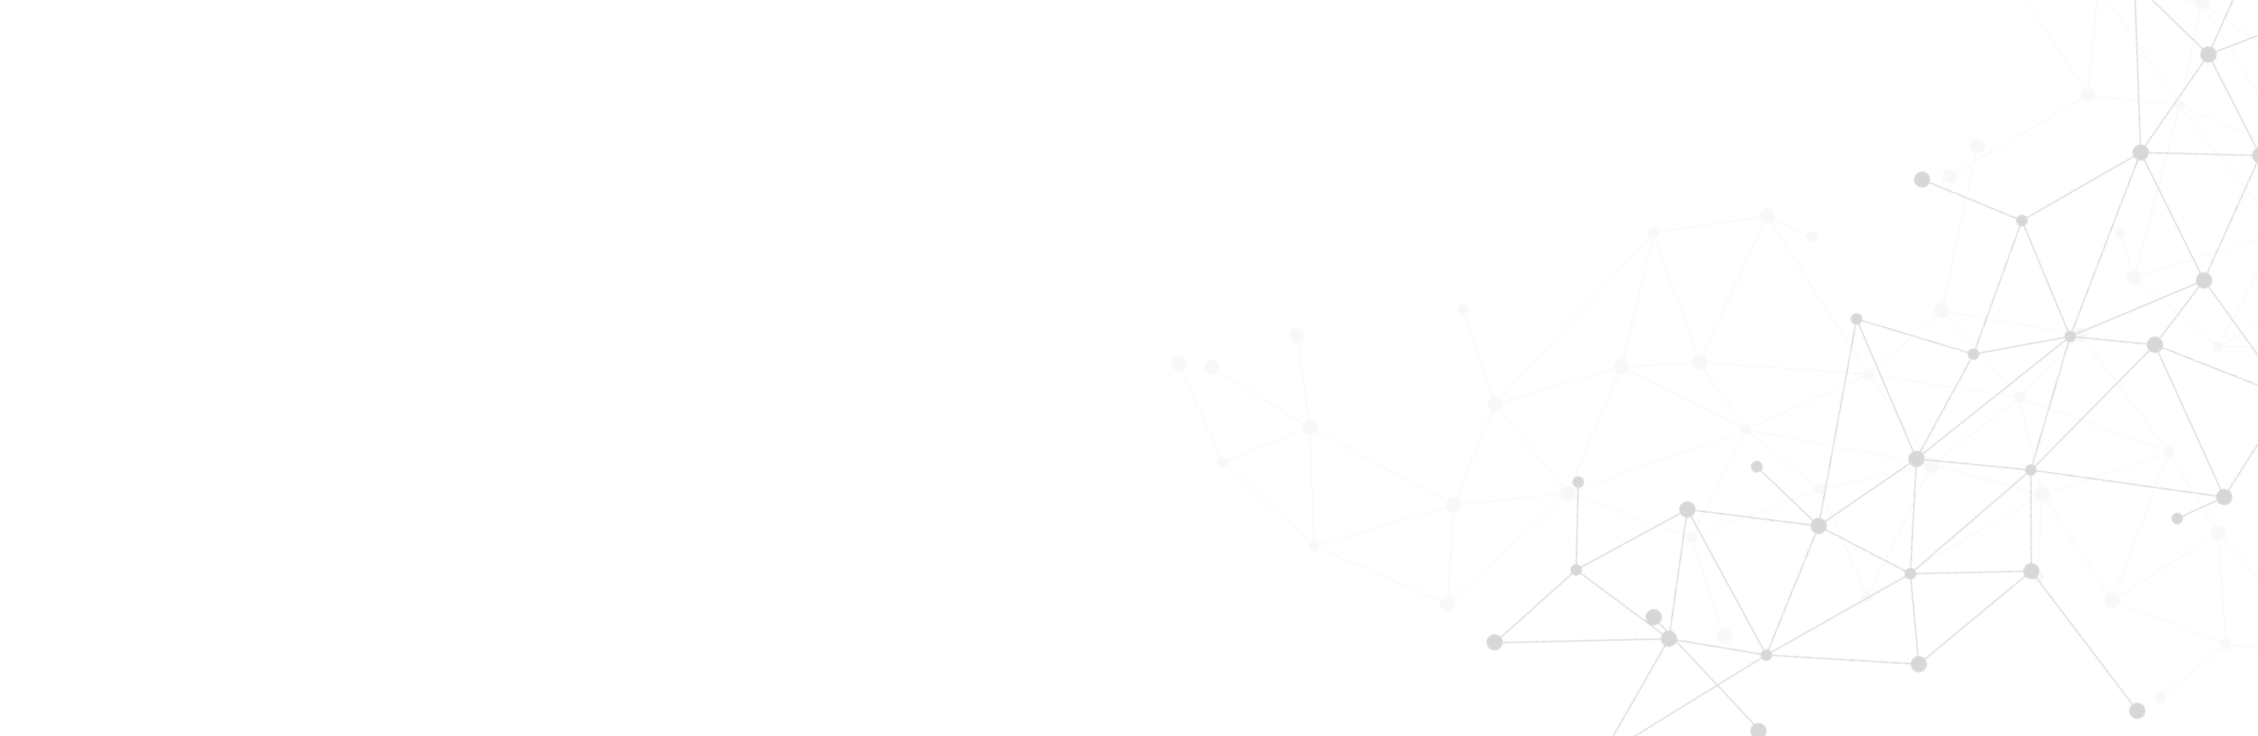
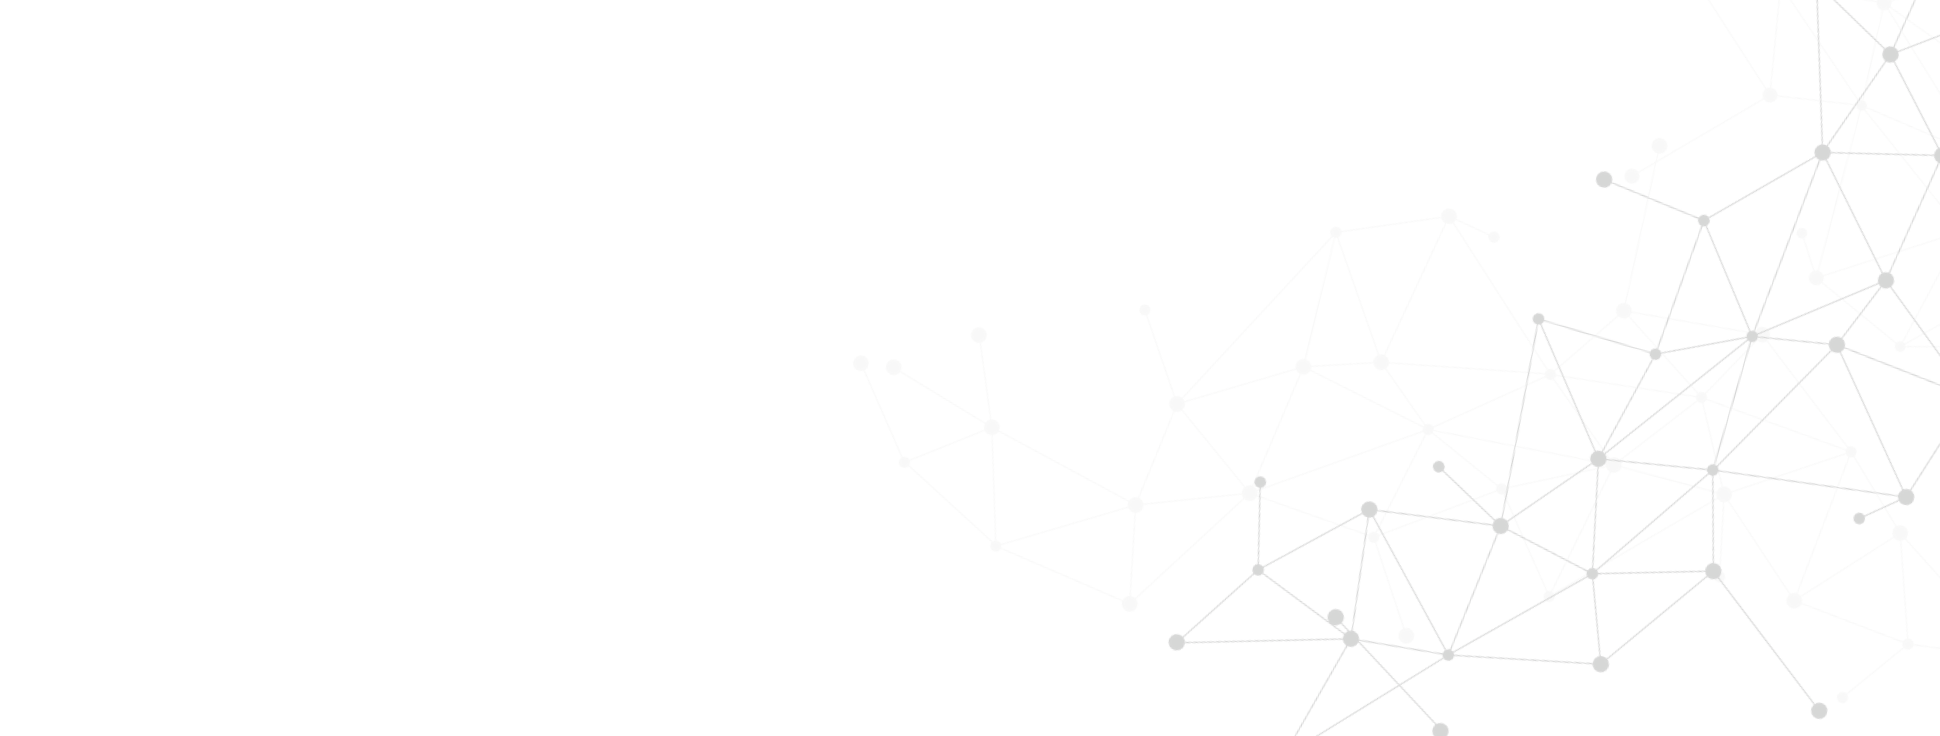
dropdowns and carousel

diff --git a/pages/index.vue b/pages/index.vue
@@ -5,7 +5,7 @@
         { baseContainer: true, inBetween: disabled, newContainer: disabled },
       ]"
     >
-      <div class="title-container font-Roboto text-2xl md:text-6xl">
+      <div class="title-container font-Roboto text-2xl md:text-5xl">
         <p id="title-line1">Crafting Your Digital Advantage</p>
         <p id="title-line2">with Innovative Solutions</p>
       </div>
@@ -41,24 +41,47 @@
       style="display: none"
     >
       <v-carousel touch.boolean="true" height="100%">
+        <v-carousel-item>
+          <p class="font-Poppins text-xl md:text-4xl m-6">
+            Services
+        </p>
+          <div class="columns-3 p-4 mt-10 mx-36">
+            <v-card class="" v-for="n in 3" :key="n" :title="n">
+              <v-card-text>mimimiimimi</v-card-text>
+            </v-card>
+          </div>
+        </v-carousel-item>
+
         <v-carousel-item v-for="item in carousel">
-          <div class="flex md:m-24" style="width: 75%; margin-left: auto !important; margin-right: auto !important">
+          <div
+            class="flex md:m-24"
+            style="
+              width: 75%;
+              margin-left: auto !important;
+              margin-right: auto !important;
+            "
+          >
             <div class="text-center p-8 m-auto">
               <p class="font-Poppins text-xl md:text-4xl m-6">
                 {{ item.title }}
               </p>
-              <p class="font-Overpass text-gray-500 text-sm md:text-xl">
+              <p
+                class="font-Overpass text-gray-500 text-sm font-semibold md:text-xl"
+              >
                 {{ item.text }}
               </p>
             </div>
 
-            <v-avatar class="ma-3 sm:d-none md:d-block hidden-sm-and-down" rounded="0" size="350">
-              <v-img :src=item.image></v-img>
+            <v-avatar
+              class="ma-3 sm:d-none md:d-block hidden-sm-and-down"
+              rounded="0"
+              size="350"
+            >
+              <v-img :src="item.image"></v-img>
             </v-avatar>
           </div>
         </v-carousel-item>
       </v-carousel>
-      
     </div>
   </div>
 </template>
@@ -72,22 +95,22 @@ function findMore() {
 }
 
 const carousel = ref([
-    {
-      title: "Custom Software Development",
-      text: "We build and optimize software solutions tailored to your unique business and organizational objectives and processes. Working closely with you throughout the development process, we ensure constant alignment with your business and operational objectives. We are committed to producing exceptional software for you.",
-      image: "https://cdn.vuetifyjs.com/images/cards/foster.jpg",
-    },
-    {
-      title: "Software Re-engineering and Support",
-      text: "Our seasoned software engineers enhance your system by updating technology, redesigning the UI, and integrating new features. Our reengineering and support services ensure your software stays modern, easy to maintain, and aligned with your business goals.",
-      image: "https://cdn.vuetifyjs.com/images/cards/hotel.jpg",
-    },
-    {
-      title: "Cloud Computing Support",
-      text: "Our cloud computing support services helps your organization migrate its IT infrastructure to the Cloud, ensuring that you can take advantage of the many benefits of Cloud Computing, including scalability, flexibility, and cost-effectiveness.  We’ll help you design, implement, and optimize Cloud services and the infrastructure to support your computing requirements.",
-      image: "https://cdn.vuetifyjs.com/images/cards/sunshine.jpg",
-    },
-  ]);
+  {
+    title: "Custom Software Development",
+    text: "We build and optimize software solutions tailored to your unique business and organizational objectives and processes. Working closely with you throughout the development process, we ensure constant alignment with your business and operational objectives. We are committed to producing exceptional software for you.",
+    image: "https://cdn.vuetifyjs.com/images/cards/foster.jpg",
+  },
+  {
+    title: "Software Re-engineering and Support",
+    text: "Our seasoned software engineers enhance your system by updating technology, redesigning the UI, and integrating new features. Our reengineering and support services ensure your software stays modern, easy to maintain, and aligned with your business goals.",
+    image: "https://cdn.vuetifyjs.com/images/cards/hotel.jpg",
+  },
+  {
+    title: "Cloud Computing Support",
+    text: "Our cloud computing support services helps your organization migrate its IT infrastructure to the Cloud, ensuring that you can take advantage of the many benefits of Cloud Computing, including scalability, flexibility, and cost-effectiveness.  We’ll help you design, implement, and optimize Cloud services and the infrastructure to support your computing requirements.",
+    image: "https://cdn.vuetifyjs.com/images/cards/sunshine.jpg",
+  },
+]);
 </script>
 
 <style>
@@ -141,11 +164,11 @@ const carousel = ref([
 
 .baseCarouselContainer {
   background: radial-gradient(
-      80% 30% at 50% -5%,
+      80% 20% at 50% -5%,
       #ffcd9388 40%,
       rgba(255, 255, 255, 0.127) 100%
     ),
-    url("/assets/images/networkbg.png") no-repeat;
+    url(/assets/images/networkbg.png) no-repeat fixed;
   background-color: white;
   position: absolute;
   bottom: 0%;

diff --git a/components/ServicesDropdown.vue b/components/ServicesDropdown.vue
@@ -1,13 +1,38 @@
 <template v-slot:default="{ isActive }">
-    <v-card title="Services" style="border-radius: 0px">
-      <v-list lines="one">
-        <v-list-item
-          v-for="n in 3"
-          :key="n"
-          :title="'Item ' + n"
-          subtitle="Lorem ipsum dolor sit amet consectetur adipisicing elit mimiimimi"
-          class="text-hover"
-        ></v-list-item>
-      </v-list>
-    </v-card>
-  </template>
+  <v-card
+    title="Services"
+    style="border-radius: 0px"
+    class="max-h-72 pb-4 pl-5 font-Poppins"
+  >
+    <!-- can only fit up to 4 items, trying to fix it could take time -->
+    <v-list lines="one">
+      <v-list-item
+        v-for="service in services"
+        :title="service.title"
+        :subtitle="service.subtitle"
+        class="text-hover"
+      ></v-list-item>
+    </v-list>
+  </v-card>
+</template>
+
+<script setup>
+const services = ref([
+  {
+    title: "Service 1",
+    subtitle: "Service 1 Subtitle",
+  },
+  {
+    title: "Service 2",
+    subtitle: "Service 2 Subtitle",
+  },
+  {
+    title: "Service 2",
+    subtitle: "Service 2 Subtitle",
+  },
+  {
+    title: "Service 2",
+    subtitle: "Service 2 Subtitle",
+  },
+]);
+</script>

diff --git a/components/PartnersDropdown.vue b/components/PartnersDropdown.vue
@@ -1,13 +1,30 @@
 <template v-slot:default="{ isActive }">
-  <v-card title="Partners" style="border-radius: 0px">
+  <v-card
+    title="Partners"
+    style="border-radius: 0px"
+    class="max-h-72 pb-4 pl-5 font-Poppins"
+  >
+    <!-- can only fit up to 4 items, trying to fix it could take time -->
     <v-list lines="one">
       <v-list-item
-        v-for="n in 3"
-        :key="n"
-        :title="'Item ' + n"
-        subtitle="Lorem ipsum dolor sit amet consectetur adipisicing elit"
+        v-for="partner in partners"
+        :title="partner.title"
+        :subtitle="partner.subtitle"
         class="text-hover"
       ></v-list-item>
     </v-list>
   </v-card>
 </template>
+
+<script setup>
+const partners = ref([
+  {
+    title: "DataStax",
+    subtitle: "DataStax Subtitle",
+  },
+  {
+    title: "Fastly",
+    subtitle: "Fastly Subtitle",
+  },
+]);
+</script>
